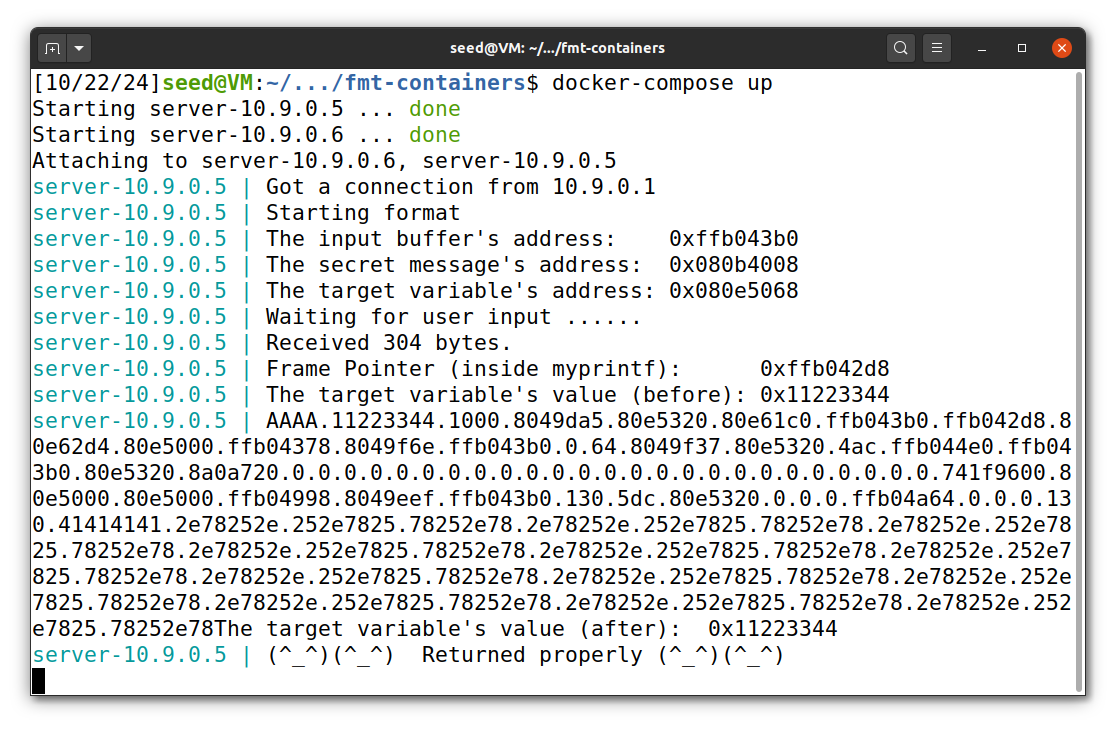
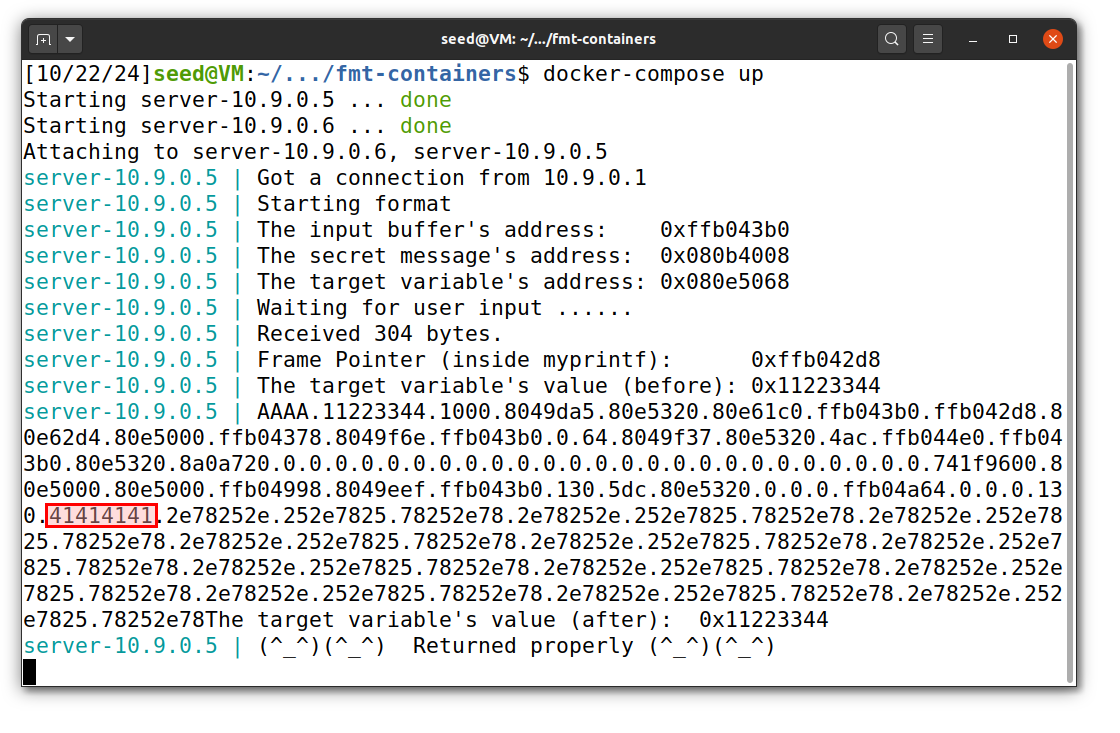
fix: final review

diff --git a/LOGBOOK6.md b/LOGBOOK6.md
@@ -62,15 +62,15 @@ We observed that the value `41414141` (hexadecimal representation of `AAAA`) app
 #### Task 2.B: Heap Data
 
 In this attack the objective was to read a string from a specific address printed by the server:
-<!-- Ele sempre o mesmo? -->
-```bash
+
+```
 server-10.9.0.5 | The secret message's address:  0x080b4008
 ```
 Steps to achieve this:
 
 1. Place the address of the secret message (`0x080b4008`) at the beginning of the payload.
-2. Use 63 consequences `%x` to skip 63 values on the stack (based on the previous task, where 63 values precede our written bytes).
-3. Add single `%s` to instruct the server to read a string from the stack, which will be the address we placed in the step 1.
+2. Use 63 repetitions of `%x` to skip 63 address positions on the stack (based on the previous task, where 63 * 4 bytes precede the bytes we wrote).
+3. Add a single `%s` to instruct the server to read a string from the stack, which will be the address we placed in the step 1.
 
 The final `build_string.py` code:
 
@@ -86,15 +86,15 @@ with open('badfile', 'wb') as f:
   f.write(payload)
 ```
 
-We ran `python3 build_string.py` then sent `echo hello` to verify the string's address and then used our `badfile` to read a string (`cat badfile | nc 10.9.0.5 9090`).
+We ran `python3 build_string.py`, then sent `echo hello` to verify the string's address and then used our `badfile` to read the string (`cat badfile | nc 10.9.0.5 9090`).
 
-The output:
+With that, we received the following output:
 
 <p align="center" justify="center">
   <img src="./assets/LOGBOOK6/task2b.png"/>
 </p>
 
-At the end of the output, we saw the string `"A secret message"`, confirming that we successfully read data from the heap.
+At the end of the output, we saw the string `"A secret message"`, confirming that we successfully read the message from the heap.
 
 ### Task 3: Modifying the Server Program's Memory
 
@@ -128,9 +128,9 @@ In the server output, we can see `The target variable's value (before): 0x112233
 
 #### Task 3.B
 
-Based on the previous task which already overwrites the target variable, we know have to find a way to control which value is placed in that memory address. More specifically, we have to write the value 0x5000 into that memory address.
+Based on the previous task which already overwrites the target variable, we know have to find a way to control which value is placed in that memory address. More specifically, we have to write the value `0x5000` into that memory address.
 
-For this, we will still use the `%n` specifier to write the value in the designated address, but we will also use the `%x` to control the number of bytes read from the stack.
+For this, we will still use the `%n` specifier to write the value in the designated address, but we will also use the last `%x` to control the number of characters printed.
 
 ```python
 import sys
@@ -151,7 +151,7 @@ with open('badfile', 'wb') as f:
   f.write(content)
 ```
 
-By doing this, we start by writing the designated address we want to overwrite in the start of the buffer. After this, the printf will start by executing the `%.8x` which will print 8 chars and advance 4 addresses in memory. Then, it will execute the `%.{n}x` which will print the n characters and advance 4 positions in memory. Finally, it will write the value of printed chars (0x5000) to the address initially defined (0x080e5068), using the `%n`.
+By doing this, we start by writing the designated address we want to overwrite in the start of the buffer. After this, the printf will start by executing the `%.8x` which will print 8 characters and advance 4 bytes in stack memory, a total of 62 times. Then, it will execute the `%.{n}x` which will print the n characters and advance one more address in memory. Finally, it will write the value of printed chars (`0x5000`) to the address initially defined (`0x080e5068`), using the `%n` format specifier.
 
 <p align="center" justify="center">
   <img src="./assets/LOGBOOK6/task3b.png"/>
@@ -163,7 +163,7 @@ In the server output, we can see `The target variable's value (before): 0x112233
 
 The attacks we performed along the tasks are caused by the weakness CWE-134 "Use of Externally-Controlled Format String". According to [CWE Mitre](https://cwe.mitre.org/data/definitions/134.html), this weakness is observed when a function accepts a format string, originated from an external source (e.g. user input), as its argument.
 
-Since a user string can be stored in the heap, just as in the stack, we can also observe a vulnerability if the format string is allocated dynamically. For example, we can use something similar to the exploit on task 2.A to read everything from the stack, which can include sensitive data.
+Since a user string can be stored in the heap, just as in the stack, we can also observe a vulnerability if the format string is allocated dynamically. For example, we can use something similar to the exploit on task 2.A to read information from the stack, which can include sensitive data.
 
-However, for running the attacks we used on this guide, we need to store the address in memory we want to read/write to in a position that can be interpreted by `printf` as the address of one of its arguments. This means that the value needs to be stored on the stack, so it cannot be influenced by information of the format string, making all the attacks we performed unreliable. It can only be done by using non-deterministic solutions, such as using pre-existing stack values.
+However, for running the attacks we used on this guide, we need to store the address in memory we want to read/write to in a position that can be interpreted by `printf` as the address of one of its arguments. This means that the value needs to be stored on the stack, so it cannot be influenced by information of the format string, making all the attacks we performed infeasible. It can only be done by using non-deterministic solutions, such as using pre-existing stack values.
 
